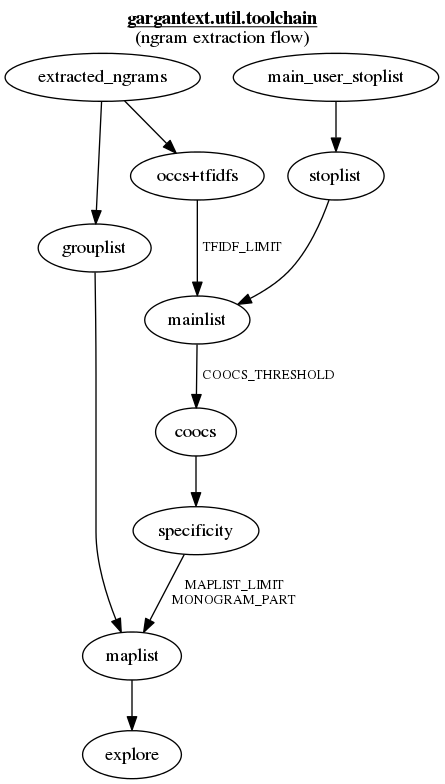
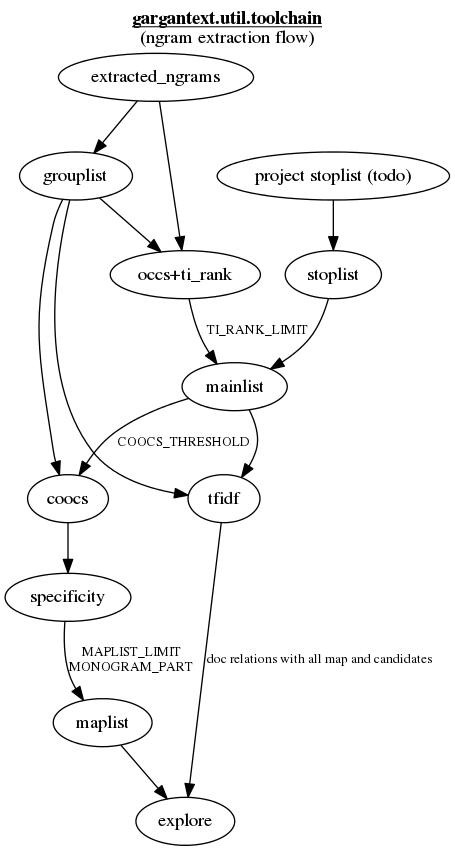
finished ngram workflow with groups (todo 'recount' button after changing groups

diff --git a/gargantext/util/toolchain/metric_tfidf.py b/gargantext/util/toolchain/metric_tfidf.py
@@ -377,12 +377,18 @@ def compute_ti_ranking(corpus,
 
 
 
-def compute_tfidf_local(corpus, overwrite_id=None):
+def compute_tfidf_local(corpus,
+                        on_list_id=None,
+                        groupings_id=None,
+                        overwrite_id=None):
     """
     Calculates tfidf similarity of each (doc, ngram) couple, within the current corpus
 
     Parameters:
       - the corpus itself
+      - groupings_id: optional synonym relations to add all subform counts
+                      with their mainform's counts
+      - on_list_id: mainlist or maplist type, to constrain the input ngrams
       - overwrite_id: optional id of a pre-existing TFIDF-XXXX node for this corpus
                    (the Node and its previous NodeNodeNgram rows will be replaced)
     """
@@ -398,36 +404,94 @@ def compute_tfidf_local(corpus, overwrite_id=None):
     # N
     total_docs = session.query(docids_subquery).count()
 
-    # number of docs with given term (number of rows = M ngrams)
-    n_docswith_ng = (session
-                    .query(
-                        NodeNgram.ngram_id,
-                        func.count(NodeNgram.node_id).label("nd")  # nd: n docs with term
-                     )
-                    .filter(NodeNgram.node_id.in_(docids_subquery))
-                    .group_by(NodeNgram.ngram_id)
-                    .all()
-                   )
 
-    # { ngram_id => log(nd) }
-    log_nd_lookup = {row.ngram_id : log(row.nd) for row in n_docswith_ng}
+    # define the counted form
+    if not groupings_id:
+        ngform_id = NodeNgram.ngram_id
+    else:
+        Syno = (session.query(NodeNgramNgram.ngram1_id,
+                             NodeNgramNgram.ngram2_id)
+                .filter(NodeNgramNgram.node_id == groupings_id)
+                .subquery()
+               )
+
+        ngform_id = case([
+                            (Syno.c.ngram1_id != None, Syno.c.ngram1_id),
+                            (Syno.c.ngram1_id == None, NodeNgram.ngram_id)
+                        ])
 
     # tf for each couple (number of rows = N docs X M ngrams)
-    tf_doc_ng = (session
+    tf_doc_query = (session
                     .query(
-                        NodeNgram.ngram_id,
+                        ngform_id,
                         NodeNgram.node_id,
                         func.sum(NodeNgram.weight).label("tf"),    # tf: occurrences
                      )
-                    .filter(NodeNgram.node_id.in_(docids_subquery))
-                    .group_by(NodeNgram.node_id, NodeNgram.ngram_id)
-                    .all()
+
+                     # select within docs of current corpus
+                    .join(docids_subquery,
+                          docids_subquery.c.id == NodeNgram.node_id)
                    )
+
+    if groupings_id:
+        tf_doc_query = ( tf_doc_query
+                .outerjoin(Syno, Syno.c.ngram2_id == NodeNgram.ngram_id)
+            )
+        # now when we'll group_by the ngram2 freqs will be added to ngram1
+
+    if on_list_id:
+        Miamlist = aliased(NodeNgram)
+        tf_doc_query = ( tf_doc_query
+                .join(Miamlist, Miamlist.ngram_id == ngform_id)
+                .filter( Miamlist.node_id == on_list_id )
+            )
+
+    # execute query to do our tf sum
+    tf_per_doc = tf_doc_query.group_by(NodeNgram.node_id, ngform_id).all()
+
+    # ex: [(128371, 9732, 1.0),
+    #      (128383, 9740, 1.0),
+    #      (128373, 9731, 1.0),
+    #      (128376, 9734, 1.0),
+    #      (128372, 9731, 1.0),
+    #      (128383, 9733, 1.0),
+    #      (128383, 9735, 1.0),
+    #      (128389, 9734, 1.0),
+    #      (8624, 9731, 1.0),
+    #      (128382, 9740, 1.0),
+    #      (128383, 9739, 1.0),
+    #      (128383, 9736, 1.0),
+    #      (128378, 9735, 1.0),
+    #      (128375, 9733, 4.0),
+    #      (128383, 9732, 1.0)]
+    #        ^ ^     ^^    ^^
+    #       ngram   doc   freq in this doc
+
+
+
+    # simultaneously count docs with given term (number of rows = M ngrams)
+
+    ndocswithngram = {}
+    for triple in tf_per_doc:
+        ng = triple[0]
+        doc = triple[1]
+        if ng in ndocswithngram:
+            ndocswithngram[ng] += 1
+        else:
+            ndocswithngram[ng] = 1
+
+    # print(ndocswithngram)
+
+    # store for use in formula
+    # { ngram_id => log(nd) }
+    log_nd_lookup = {ng : log(nd_count)
+                        for (ng, nd_count) in ndocswithngram.items()}
+
 
     # ---------------------------------------------------------
     tfidfs = {}
     log_tot_docs = log(total_docs)
-    for (ngram_id, node_id, tf) in tf_doc_ng:
+    for (ngram_id, node_id, tf) in tf_per_doc:
         log_nd = log_nd_lookup[ngram_id]
         # tfidfs[ngram_id] = tf * log(total_docs/nd)
         tfidfs[node_id, ngram_id] = tf * (log_tot_docs-log_nd)

diff --git a/gargantext/util/toolchain/__init__.py b/gargantext/util/toolchain/__init__.py
@@ -129,8 +129,9 @@ def parse_extract_indexhyperdata(corpus):
     print('CORPUS #%d: [%s] new mainlist node #%i' % (corpus.id, t(), mainlist_id))
 
     # -> write local tfidf similarities to Node and NodeNodeNgram
-    # TODO only on mainlist
-    ltfidf_id = compute_tfidf_local(corpus)
+    ltfidf_id = compute_tfidf_local(corpus,
+                                    on_list_id=mainlist_id,
+                                    groupings_id = group_id)
     print('CORPUS #%d: [%s] new localtfidf node #%i' % (corpus.id, t(), ltfidf_id))
     # => used for doc <=> ngram association
 

diff --git a/gargantext/util/toolchain/ngram_coocs.py b/gargantext/util/toolchain/ngram_coocs.py
@@ -18,7 +18,7 @@ def compute_coocs(  corpus,
                     stoplist_id     = None,
                     start           = None,
                     end             = None,
-                    symmetry_filter = True):
+                    symmetry_filter = False):
     """
     Count how often some extracted terms appear
     together in a small context (document)
